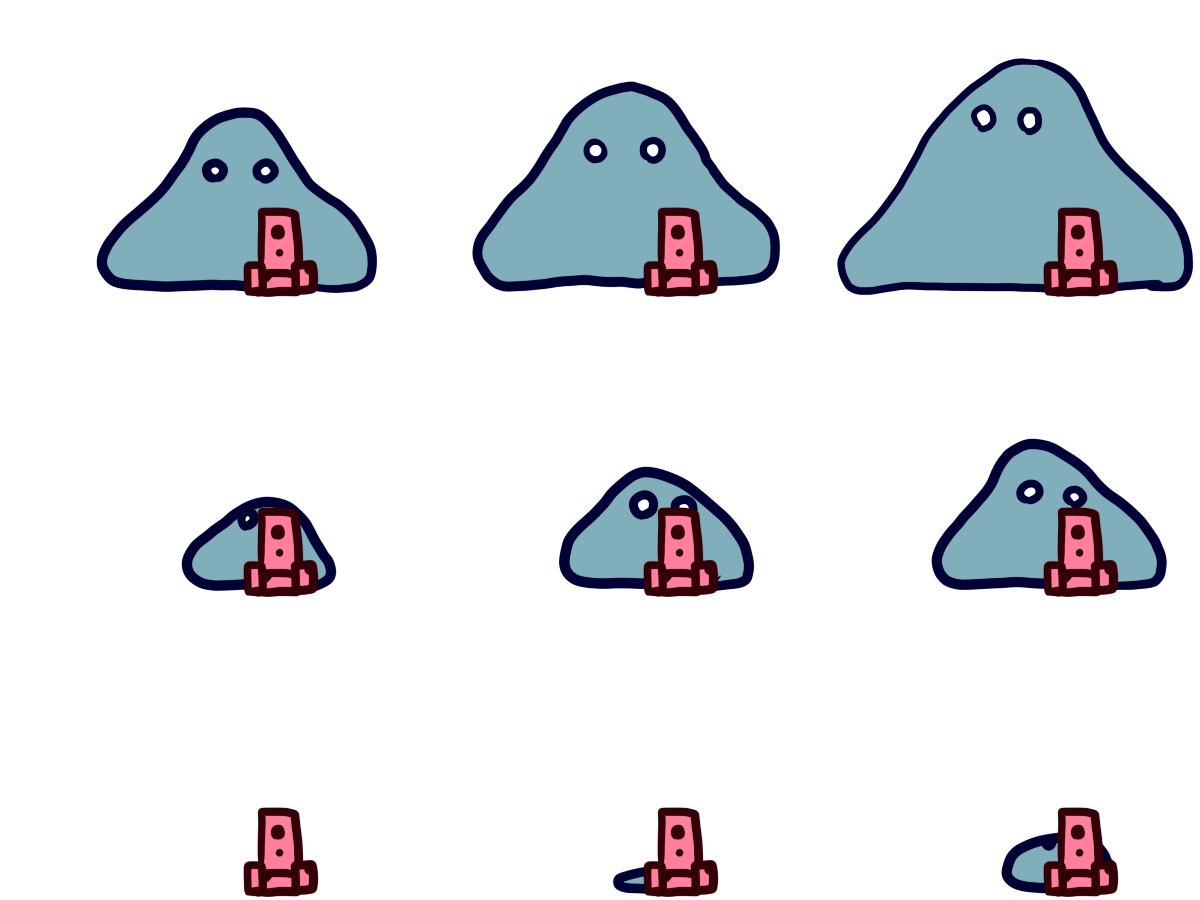
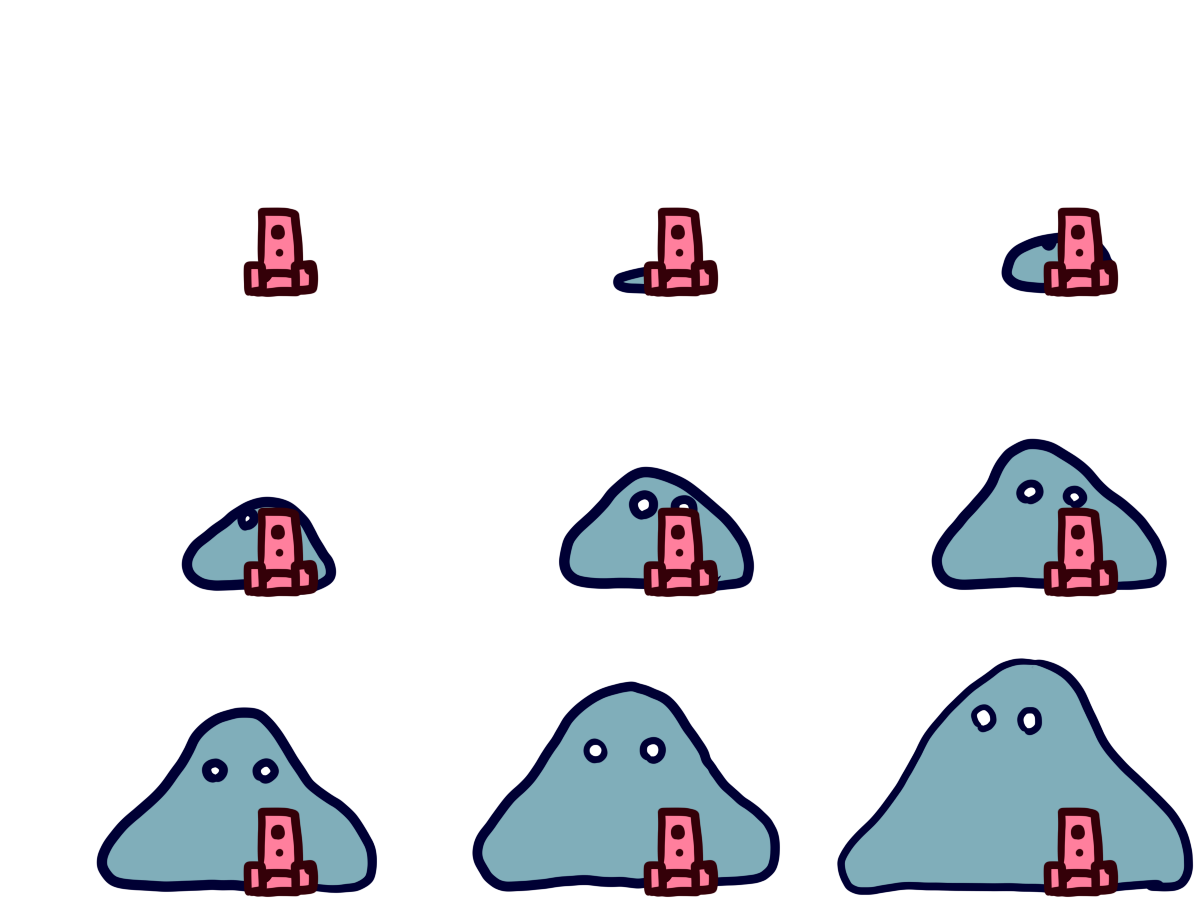
モノリス

diff --git a/saihate.cpp b/saihate.cpp
@@ -100,13 +100,13 @@ void saihate::draw(int cx){
 		DrawGraph(x - cx, y, Images::getIns()->g_saihate_t[ani_count / ANIM_SPEED%ANI_SAIHATE_T], true);
 		break;
 	case UnitState::ATK:
-		DrawGraph(x - cx + WID_SAIHATE - WID_SAIHATE_A_R, y, Images::getIns()->g_saihate_a_r[(ANI_SAIHATE_A - 1)-(ani_count / ANIM_SPEED)%ANI_SAIHATE_A], true);
+		DrawGraph(x - cx + WID_SAIHATE - WID_SAIHATE_A_R, y, Images::getIns()->g_saihate_a_r[ani_count / ANIM_SPEED%ANI_SAIHATE_A], true);
 		break;
 	case UnitState::WAIT:
 		DrawGraph(x - cx, y, Images::getIns()->g_saihate_t[ani_count / ANIM_SPEED%ANI_SAIHATE_T], true);
 		break;
 	case UnitState::ST0:
-		DrawGraph(x - cx, y, Images::getIns()->g_saihate_h[(ANI_SAIHATE_H - 1)-(ani_count / ANIM_SPEED%ANI_SAIHATE_H)], true);
+		DrawGraph(x - cx, y, Images::getIns()->g_saihate_h[ani_count / ANIM_SPEED%ANI_SAIHATE_H], true);
 		break;
 	case UnitState::ST1:
 		DrawGraph(x - cx, y + HEI_SAIHATE - HEI_SAIHATE_A_S, Images::getIns()->g_saihate_a_s[ani_count / ANIM_SPEED%ANI_SAIHATE_A], true);

diff --git a/Factory.cpp b/Factory.cpp
@@ -34,6 +34,8 @@
 #include "hana.h"
 #include "yukidama.h"
 #include "g_voice.h"
+#include "monoris.h"
+
 #include "saihate.h"
 using namespace std;
 
@@ -107,6 +109,9 @@ shared_ptr<character> Factory::create_chara(int x, int st, int line, UnitType ty
 	case UnitType::_BEEBAR:
 		chara_ins.reset(new beebar(x, line, st));
 		break;
+	case UnitType::_MONORIS:
+		chara_ins.reset(new monoris(x, line, st));
+		break;
 	case UnitType::_SAIHATE:
 		chara_ins.reset(new saihate(x, line, st));
 		break;
@@ -171,6 +176,7 @@ std::shared_ptr<effect> Factory::create_effect(int fx, int fy, int type, Directi
 	case GVOICE:
 		ret_ins.reset(new gvoice(fx, fy,dr, atk_power));
 		break;
+
 	}
 	return ret_ins;
 	

diff --git a/AttackRange.cpp b/AttackRange.cpp
@@ -10,7 +10,13 @@ bool AttackRange::judge(int x, int w, Position u_type){
 }
 
 void AttackRange::draw(int cx){
-	DrawBox(l_edge-cx, 0, r_edge-cx, WINDOW_Y, GetColor(0,255,0),true);
+	if(atk_type==ALL)
+		DrawBox(l_edge-cx, 0, r_edge-cx, WINDOW_Y, GetColor(0,255,0),true);
+	else if (atk_type == RAND)
+		DrawBox(l_edge - cx, WINDOW_Y/2, r_edge - cx, WINDOW_Y, GetColor(0, 255, 0), true); 
+	else if (atk_type == SKY)
+		DrawBox(l_edge - cx, 0, r_edge - cx, WINDOW_Y/2, GetColor(0, 255, 0), true);
+
 }
 
 int AttackRange::getDamage(){

diff --git a/enemy.cpp b/enemy.cpp
@@ -57,7 +57,7 @@ void enemy::damage(int d, Position op_a_type,UnitType op_unit_type){
 			}
 		}
 		hp -= max(d - defense, 0);
-		printfDx("%d\n", d - defense);
+		printfDx("%d %d\n",op_a_type, d - defense);
 		if (state != UnitState::DIE && hp < 0){
 			changeState(UnitState::DIE);
 		}
@@ -102,10 +102,11 @@ void enemy::changeState(UnitState next_state){
 				state = UnitState::WAIT;
 			}
 			break;
-		case UnitState::ST0:
+		default:
 			state = next_state;
 
 			break;
+			
 		}
 
 		break;

diff --git a/musume.cpp b/musume.cpp
@@ -71,6 +71,8 @@ void musume::changeState(UnitState next_state){
 		}
 		break;
 	case UnitState::ST0:
+	case UnitState::ST1:
+	case UnitState::ST2:
 		state = next_state;
 		
 		break;
@@ -106,6 +108,8 @@ void musume::damage(int d, Position op_a_type, UnitType op_unit_type){
 			}
 		}
 		hp -= max(d - param->getParam(DEFENSE), 0);
+		printfDx("%d %d\n", op_a_type, d - param->getParam(DEFENSE));
+
 		if (hp < 0){
 			changeState(UnitState::DIE);
 		}

diff --git a/beebar.cpp b/beebar.cpp
@@ -42,8 +42,15 @@ void beebar::main(int front){
 		atk = false;
 		break;
 	case UnitState::DIE:
+		if (ani_count == 1){
+			Game::getIns()->effect_create(x + width / 2 - WID_NOMALEXP / 2, y + height / 2 - HEI_NOMALEXP / 2, NOMALEXP);
+		}
+		if (ani_count == 4)
+			Game::getIns()->effect_create(x + width / 2 - WID_NOMALEXP / 2 + 10, y + height / 2 - HEI_NOMALEXP / 2, NOMALEXP);
 
-		del();
+		if (ani_count / 3 == 2){
+			del();
+		}
 		break;
 
 	}

diff --git a/Images.h b/Images.h
@@ -79,6 +79,10 @@ public:
 	int g_beebar_w[3][ANI_BEEBAR_W];
 	int g_beebar_a[3][ANI_BEEBAR_A];
 	int g_gvoice[ANI_GVOICE];
+	int g_monoris_w[3][ANI_MONORIS_W];
+	int g_monoris_a1[3][ANI_MONORIS_A1];
+	int g_monoris_a2[3][ANI_MONORIS_A2];
+	int g_monobeam[3][ANI_MONOBEAM];
 
 	int g_shiro_icon[20][2];
 

diff --git a/character.h b/character.h
@@ -18,6 +18,8 @@ public:
 	character(int, int, UnitType);
 	virtual void main(int front);
 	virtual void draw(int cx);
+	virtual void drawHP(int cx,int ty);
+
 	virtual void draw(int cx, int x, int y,int img);
 	virtual UnitState getState();
 	bool isMusume();
